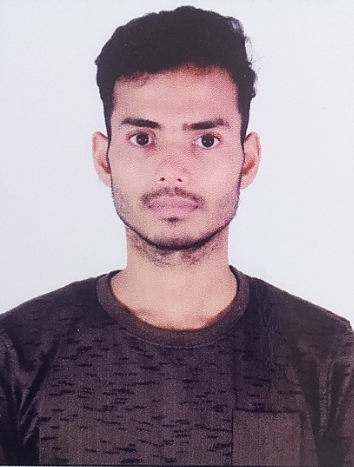
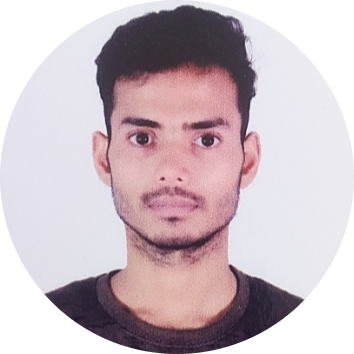
Portfolio

diff --git a/Portfolio/portfolio/src/components/About.jsx b/Portfolio/portfolio/src/components/About.jsx
@@ -2,10 +2,10 @@
 import React from "react";
 
 // Components
-import { Box, Image } from "@chakra-ui/react";
+import { Box, Image, Text } from "@chakra-ui/react";
 
 // Assets
-import PassportPic from "../assets/passport_size_pic.png";
+import PassportPic from "../assets/Saurav_Kashyap_Passpost_Size Photo.png";
 
 const About = () => {
   return (
@@ -16,21 +16,19 @@ const About = () => {
         <Image src={PassportPic} alt="Image" />
 
         <Box>
-          <p className="Mern">
+          {/* <p className="Mern">
             My name is Saurav Kashyap and{" "}
             <span>I'm a MERN Stack Developer</span>
-          </p>
+          </p> */}
 
-          <br />
-
-          <p>
-            An <strong>experienced</strong>, hard-working, and Stack Developer
-            with proficiency in MongoDB, Express. ambitious Full js, React.js,
-            Node.js, Redux, RESTful APIs, and Git. Having a problem solving
-            mindset, and 1200+ hours of hands on experience on developing fully
-            functional Full Stack website. Looking forward to working as a
-            developer and competent employee in an exciting tech company.
-          </p>
+          <Text fontSize={20}>
+            An <strong>experienced</strong>, hard-working Full Stack Developer
+            with proficiency in MongoDB, Express.js, React.js, Node.js, Redux,
+            RESTful APIs, and Git. Having a problem solving mindset, and 1200+
+            hours of hands on experience on developing fully functional Full
+            Stack website. Looking forward to working as a developer and
+            competent employee in an exciting tech company.
+          </Text>
         </Box>
       </Box>
     </div>

diff --git a/Portfolio/portfolio/src/components/NavLinks.jsx b/Portfolio/portfolio/src/components/NavLinks.jsx
@@ -1,4 +1,5 @@
 // Components
+import React from "react";
 import { Flex } from "@chakra-ui/react";
 import { Link } from "react-scroll";
 
@@ -22,11 +23,11 @@ const NavLinks = () => {
           Home
         </Link>
 
-        <Link to="about" spy={true} smooth={true} offset={-150} duration={500}>
+        <Link to="about" spy={true} smooth={true} offset={-40} duration={500}>
           About
         </Link>
 
-        <Link to="skills" spy={true} smooth={true} offset={-60} duration={500}>
+        <Link to="skills" spy={true} smooth={true} offset={-50} duration={500}>
           Skills
         </Link>
 
@@ -34,7 +35,7 @@ const NavLinks = () => {
           to="projects"
           spy={true}
           smooth={true}
-          offset={-150}
+          offset={-50}
           duration={500}
         >
           Projects

diff --git a/Portfolio/portfolio/src/components/Experience.jsx b/Portfolio/portfolio/src/components/Experience.jsx
@@ -34,16 +34,11 @@ const Experience = () => {
         </p>
 
         <ul className="JobDesc">
-          <li>Worked as Frontend Developer</li>
-          <li>Created Full Stack Projects</li>
-          <li>
-            Developed and maintained server-side APIs for various CRUD
-            operations using backend technologies
-          </li>
-          <li>
-            Built the frontend UI using React, Redux and other required
-            libraries and frameworks
-          </li>
+          <li>Worked as Windows Administrator</li>
+          <li>Created Active Directory</li>
+          <li>Allowing and denying the access to the user</li>
+          <li>Authenticating the user</li>
+          <li>Authorizing the user</li>
         </ul>
 
         <Image className="CompanyLogo" src={CapgeminiLogo} alt="Logo" />

diff --git a/Portfolio/portfolio/src/components/Contact.jsx b/Portfolio/portfolio/src/components/Contact.jsx
@@ -17,7 +17,7 @@ const Contact = () => {
 
         <li>
           <i className="fa-solid fa-envelope"></i>
-          <Link to="mailto:example@example.com">Mail Me</Link>
+          <Link to="mailto:kashyapsaurav531@gmail.com">Mail Me</Link>
         </li>
 
         <li>
@@ -39,7 +39,7 @@ const Contact = () => {
         <li>
           <i className="fa-brands fa-github"></i>
           <Link
-            to="https://github.com/kashyapsaurav/kashyapsaurav"
+            to="https://github.com/skashyap9934/skashyap9934"
             target="_blank"
           >
             Github

diff --git a/Portfolio/portfolio/src/context/ThemeContextProvider.jsx b/Portfolio/portfolio/src/context/ThemeContextProvider.jsx
@@ -1,4 +1,5 @@
 /* eslint-disable react/prop-types */
+import React from "react";
 import { createContext, useState } from "react";
 
 export const MyThemeContext = createContext();

diff --git a/Portfolio/portfolio/src/App.jsx b/Portfolio/portfolio/src/App.jsx
@@ -24,7 +24,6 @@ const App = () => {
 
   return (
     <div className={`App ${theme}`}>
-      <p>Hi</p>
       <Navbar />
       <PostNavBody />
       <About />
